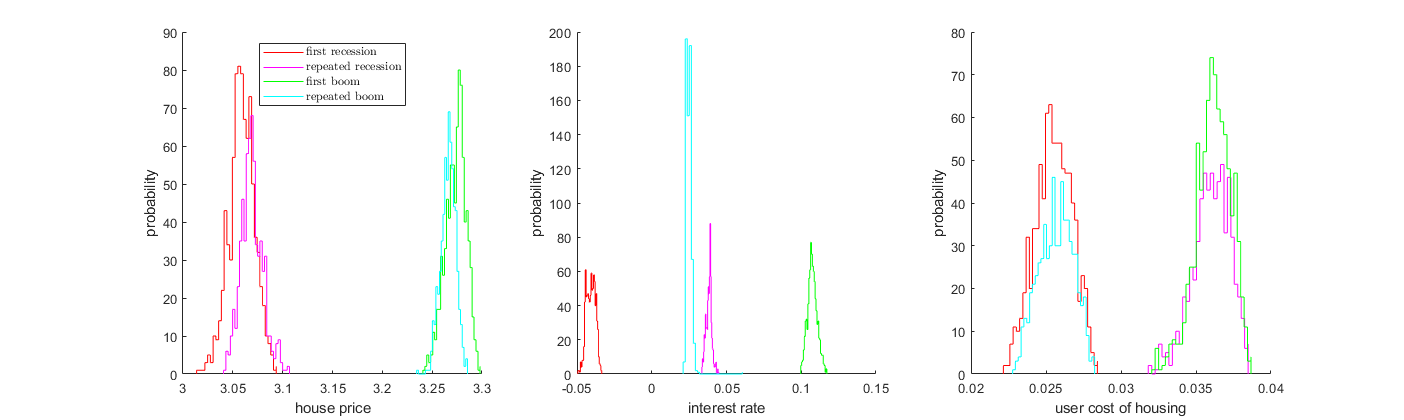
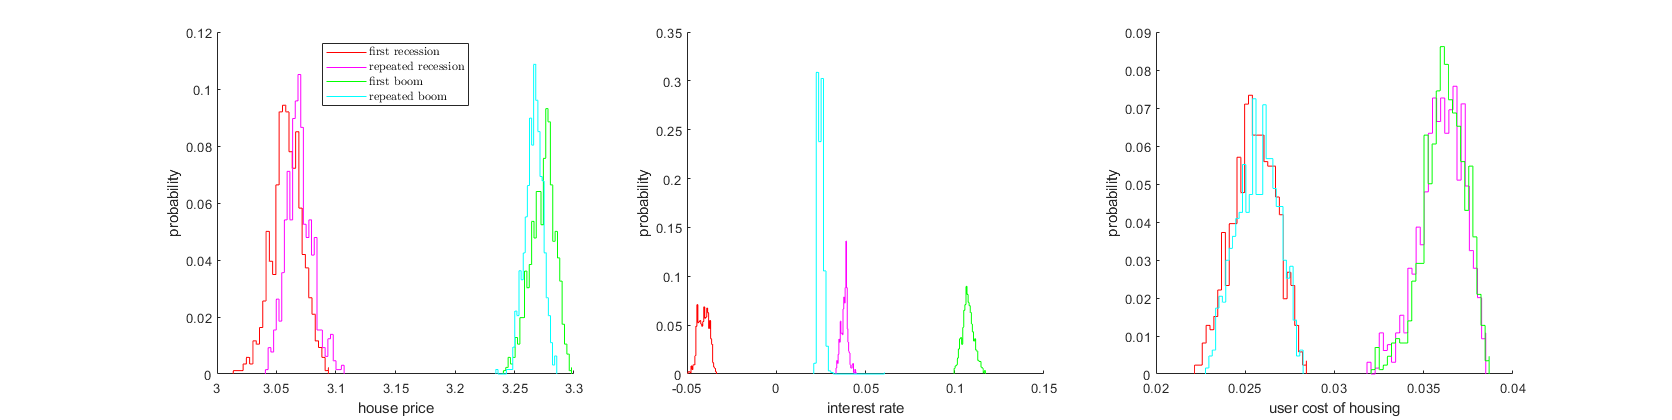
AddedStatisticsForHousingModel

diff --git a/Code/Proehl_HousingModel/plots.m b/Code/Proehl_HousingModel/plots.m
@@ -212,6 +212,17 @@ xlabel('individual net worth a');
 ylabel('probability');
 title('Panel B')
 
+figure(9)
+hold on
+plot(StaticParams.aGrid,Sol3.pdf_cond(1,:),'r');
+plot(StaticParams.aGrid,Sol3.pdf_cond(2,:),'m');
+plot(StaticParams.aGrid,Sol3.pdf_cond(3,:),'g');
+plot(StaticParams.aGrid,Sol3.pdf_cond(4,:),'c');
+hold off
+axis([StaticParams.a_min 15 0 0.03])
+legend('recession, low earners','recession, high earners','boom, low earners','boom, high earners','Location','northeast')
+xlabel('individual net worth a');
+ylabel('probability');
 
 %--------------------------------------------------------------------------
 % Price Distribution
@@ -233,32 +244,32 @@ u=[0.025,((1+Res.r(end,2:end)).*Res.q(end,1:end-1)./Res.q(end,2:end)-1)];
 [e2,f2]=hist((u(logical((Res.z_ag==1).*zChange))),30);
 [e3,f3]=hist((u(logical((Res.z_ag==1).*not(zChange)))),30);
 
-figure(8)
+figure(9)
 subplot(1,3,1)
 hold on
-h0=plot([b0(1),sort([b0,b0(2:end)-1e-8]),b0(end)],[0,a0(sort([1:end,1:end-1])),0],'r');
-h1=plot([b1(1),sort([b1,b1(2:end)-1e-8]),b1(end)],[0,a1(sort([1:end,1:end-1])),0],'m');
-h2=plot([b2(1),sort([b2,b2(2:end)-1e-8]),b2(end)],[0,a2(sort([1:end,1:end-1])),0],'g');
-h3=plot([b3(1),sort([b3,b3(2:end)-1e-8]),b3(end)],[0,a3(sort([1:end,1:end-1])),0],'c');
+h0=plot([b0(1),sort([b0,b0(2:end)-1e-8]),b0(end)],[0,a0(sort([1:end,1:end-1])),0]./sum(a0),'r');
+h1=plot([b1(1),sort([b1,b1(2:end)-1e-8]),b1(end)],[0,a1(sort([1:end,1:end-1])),0]./sum(a1),'m');
+h2=plot([b2(1),sort([b2,b2(2:end)-1e-8]),b2(end)],[0,a2(sort([1:end,1:end-1])),0]./sum(a2),'g');
+h3=plot([b3(1),sort([b3,b3(2:end)-1e-8]),b3(end)],[0,a3(sort([1:end,1:end-1])),0]./sum(a3),'c');
 hold off
 xlabel('house price');
 ylabel('probability');
 legend([h0,h1,h2,h3],{'first recession','repeated recession','first boom','repeated boom'},'Interpreter','latex','Location','North')
 subplot(1,3,2)
 hold on
-plot([d0(1),sort([d0,d0(2:end)-1e-8]),d0(end)],[0,c0(sort([1:end,1:end-1])),0],'r');
-plot([d1(1),sort([d1,d1(2:end)-1e-8]),d1(end)],[0,c1(sort([1:end,1:end-1])),0],'m');
-plot([d2(1),sort([d2,d2(2:end)-1e-8]),d2(end)],[0,c2(sort([1:end,1:end-1])),0],'g');
-plot([d3(1),sort([d3,d3(2:end)-1e-8]),d3(end)],[0,c3(sort([1:end,1:end-1])),0],'c');
+plot([d0(1),sort([d0,d0(2:end)-1e-8]),d0(end)],[0,c0(sort([1:end,1:end-1])),0]./sum(c0),'r');
+plot([d1(1),sort([d1,d1(2:end)-1e-8]),d1(end)],[0,c1(sort([1:end,1:end-1])),0]./sum(c1),'m');
+plot([d2(1),sort([d2,d2(2:end)-1e-8]),d2(end)],[0,c2(sort([1:end,1:end-1])),0]./sum(c2),'g');
+plot([d3(1),sort([d3,d3(2:end)-1e-8]),d3(end)],[0,c3(sort([1:end,1:end-1])),0]./sum(c3),'c');
 hold off
 xlabel('interest rate');
 ylabel('probability');
 subplot(1,3,3)
 hold on
-plot([f0(1),sort([f0,f0(2:end)-1e-8]),f0(end)],[0,e0(sort([1:end,1:end-1])),0],'r');
-plot([f1(1),sort([f1,f1(2:end)-1e-8]),f1(end)],[0,e1(sort([1:end,1:end-1])),0],'m');
-plot([f2(1),sort([f2,f2(2:end)-1e-8]),f2(end)],[0,e2(sort([1:end,1:end-1])),0],'g');
-plot([f3(1),sort([f3,f3(2:end)-1e-8]),f3(end)],[0,e3(sort([1:end,1:end-1])),0],'c');
+plot([f0(1),sort([f0,f0(2:end)-1e-8]),f0(end)],[0,e0(sort([1:end,1:end-1])),0]./sum(e0),'r');
+plot([f1(1),sort([f1,f1(2:end)-1e-8]),f1(end)],[0,e1(sort([1:end,1:end-1])),0]./sum(e1),'m');
+plot([f2(1),sort([f2,f2(2:end)-1e-8]),f2(end)],[0,e2(sort([1:end,1:end-1])),0]./sum(e2),'g');
+plot([f3(1),sort([f3,f3(2:end)-1e-8]),f3(end)],[0,e3(sort([1:end,1:end-1])),0]./sum(e3),'c');
 hold off
 xlabel('user cost of housing');
 ylabel('probability');
@@ -280,7 +291,7 @@ c = max(0,[getCApprox(Sol3.grid_N,Sol3.distrGrid,squeeze(Sol3.c(:,1,:)),Sol3.idx
                  getCApprox(Sol3.grid_N,Sol3.distrGrid,squeeze(Sol3.c(:,3,:)),Sol3.idx,Sol3.ergodic_weights(2,:));...
                  getCApprox(Sol3.grid_N,Sol3.distrGrid,squeeze(Sol3.c(:,4,:)),Sol3.idx,Sol3.ergodic_weights(2,:))]);
 
-figure(9)
+figure(10)
 subplot(2,2,1)
 hold on
 plot(StaticParams.aGrid_pol,c(1,:),'r');
@@ -352,3 +363,51 @@ ergodic_gini_PFI = [sum(sum((pdf(1,:)'*pdf(1,:)).*abs(repmat(StaticParams.aGrid'
             /(2*StaticParams.aGrid*pdf(3,:)');...
             sum(sum((pdf(4,:)'*pdf(4,:)).*abs(repmat(StaticParams.aGrid',[1,size(pdf,2)])-repmat(StaticParams.aGrid,[size(pdf,2),1])),1),2)...
             /(2*StaticParams.aGrid*pdf(4,:)')];
+
+%--------------------------------------------------------------------------
+% Comparison with and without aggregate risk
+%--------------------------------------------------------------------------
+pdf = 0.5.*(preSol.pdf_b+preSol.pdf_g);
+gini_avg = sum(sum((pdf(1,:)'*pdf(1,:)).*abs(repmat(StaticParams.aGrid',[1,size(pdf,2)])-repmat(StaticParams.aGrid,[size(pdf,2),1])),1),2)...
+            /(2*StaticParams.aGrid*pdf(1,:)');
+[Yz,Ya] = ndgrid(1:2,StaticParams.aGrid,1,1,1);
+h_policy = @(r,q) interpn(1:2,StaticParams.aGrid_pol,StaticParams.RGrid,StaticParams.qGrid,preSol.h_b,Yz,Ya,(1+r).*ones(size(Yz)),q.*ones(size(Yz)));
+h_stationary = [h_policy(preSol.agR_stationary_b,preSol.agA_stationary_b);...
+                h_policy(preSol.agR_stationary_g,preSol.agA_stationary_g)];
+h_bound = [(1/(1-StaticParams.theta).*StaticParams.aGrid./preSol.agA_stationary_b);...
+           (1/(1-StaticParams.theta).*StaticParams.aGrid./preSol.agA_stationary_b);...
+           (1/(1-StaticParams.theta).*StaticParams.aGrid./preSol.agA_stationary_g);...
+           (1/(1-StaticParams.theta).*StaticParams.aGrid./preSol.agA_stationary_g)];
+bool_constr_large = sum((h_stationary>=h_bound),2);
+prob_constr = [sum(preSol.pdf_cond_b(1,1:bool_constr_large(1)));...
+               sum(preSol.pdf_cond_b(2,1:bool_constr_large(2)));...
+               sum(preSol.pdf_cond_g(1,1:bool_constr_large(3)));...
+               sum(preSol.pdf_cond_g(2,1:bool_constr_large(4)))];
+debtToIncome = -[(0.5.*sum(preSol.pdf_cond_b_b(:,1:56)./sum(preSol.pdf_cond_b_b(:,1:56),2),1))*StaticParams.bGrid(1:56)'./0.982,...
+                 (0.5.*sum(preSol.pdf_cond_b_g(:,1:56)./sum(preSol.pdf_cond_b_g(:,1:56),2),1))*StaticParams.bGrid(1:56)'./1.054];
+
+preSolStats=[preSol.agA_stationary_b,preSol.agA_stationary_g,0.5.*(preSol.agA_stationary_b+preSol.agA_stationary_g);
+             preSol.agR_stationary_b,preSol.agR_stationary_g,0.5.*(preSol.agR_stationary_b+preSol.agR_stationary_g);
+             preSol.gini_b,preSol.gini_g,gini_avg;
+             sum(prob_constr(1:2)),sum(prob_constr(3:4)),sum(prob_constr)/2;...
+             debtToIncome,mean(debtToIncome)];
+
+h_bound = [(1/(1-StaticParams.theta).*StaticParams.aGrid_pol./Sol3.ergodic_weights(1,1));...
+           (1/(1-StaticParams.theta).*StaticParams.aGrid_pol./Sol3.ergodic_weights(1,1));...
+           (1/(1-StaticParams.theta).*StaticParams.aGrid_pol./Sol3.ergodic_weights(2,1));...
+           (1/(1-StaticParams.theta).*StaticParams.aGrid_pol./Sol3.ergodic_weights(2,1))];
+bool_constr = (h>=h_bound);
+a_bound=StaticParams.aGrid_pol(sum(bool_constr,2))';
+bool_constr_large = sum(repmat(StaticParams.aGrid,[4,1])<=repmat(a_bound,[1,length(StaticParams.aGrid)]),2);
+prob_constr = [sum(Sol3.pdf_cond(1,1:bool_constr_large(1)));...
+               sum(Sol3.pdf_cond(2,1:bool_constr_large(2)));...
+               sum(Sol3.pdf_cond(3,1:bool_constr_large(3)));...
+               sum(Sol3.pdf_cond(4,1:bool_constr_large(4)))];
+debtToIncome = -[(0.5.*sum(Sol3.pdf_cond_b(1:2,1:56)./sum(Sol3.pdf_cond_b(1:2,1:56),2),1))*StaticParams.bGrid(1:56)'./0.982,...
+                 (0.5.*sum(Sol3.pdf_cond_b(3:4,1:56)./sum(Sol3.pdf_cond_b(3:4,1:56),2),1))*StaticParams.bGrid(1:56)'./1.054];
+
+Sol3Stats = [Sol3.ergodic_q_pr,mean(Sol3.ergodic_q_pr);
+             Sol3.ergodic_r,mean(Sol3.ergodic_r);
+             Sol3.ergodic_gini',ergodic_gini_PFI(end);
+             sum(prob_constr(1:2)),sum(prob_constr(3:4)),sum(prob_constr)/2;...
+             debtToIncome,mean(debtToIncome)];
